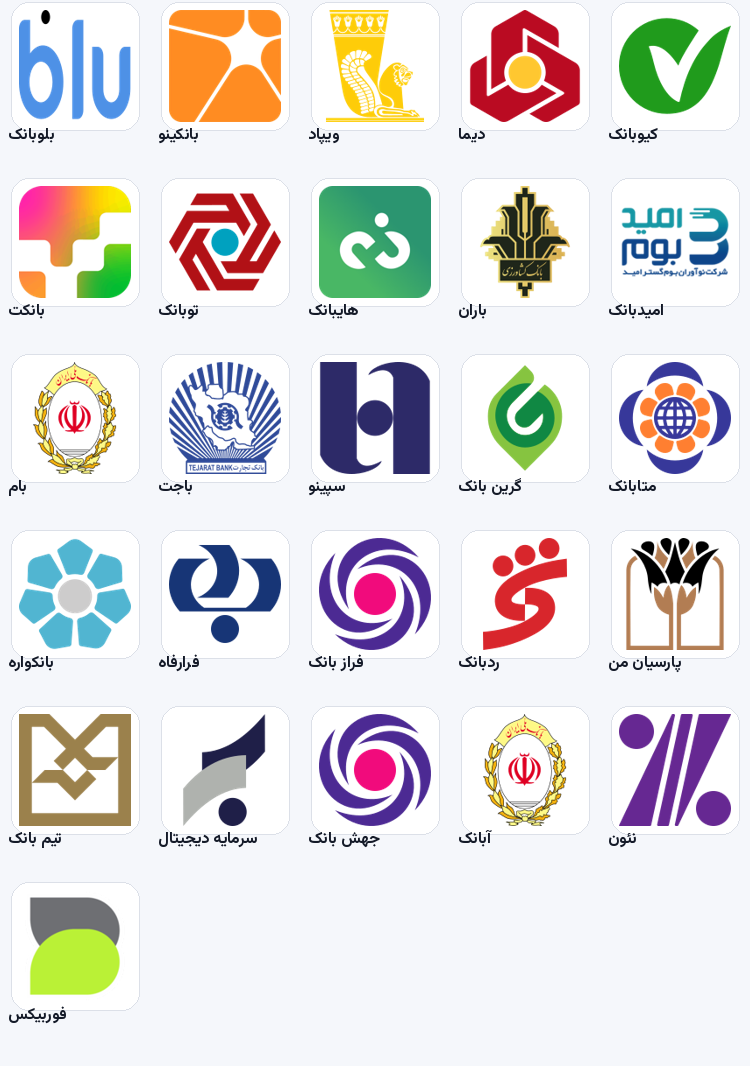
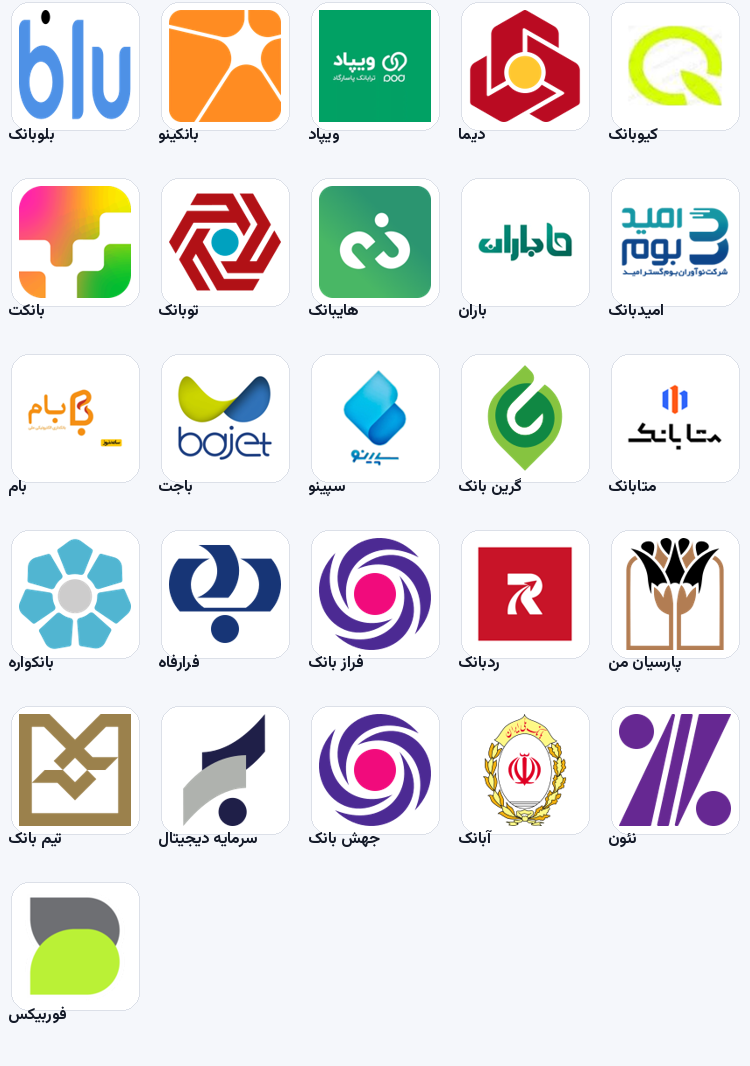
Add standalone brand marks for eight digital banks
Vipad, QBank, Baran, Bam, Bajet, Sepino, MetaBank and RedBank now use
their own marks instead of the parent bank's logo. The remaining 11
digital banks keep the documented parent-mark fallback.

diff --git a/lib/core/constants/iranian_banks.dart b/lib/core/constants/iranian_banks.dart
@@ -495,7 +495,7 @@ const List<IranianBank> iranianBanks = <IranianBank>[
     nameFa: 'ویپاد',
     nameEn: 'Vipad',
     colorHex: '#C9A227',
-    logoAsset: 'assets/banks/pasargad.svg',
+    logoAsset: 'assets/banks/vipad.png',
     kind: BankKind.digitalBank,
     parentBank: 'بانک پاسارگاد',
     aliases: ['وی پاد', 'vipad'],
@@ -515,7 +515,7 @@ const List<IranianBank> iranianBanks = <IranianBank>[
     nameFa: 'کیوبانک',
     nameEn: 'QBank',
     colorHex: '#0D9488',
-    logoAsset: 'assets/banks/mehr_iran.svg',
+    logoAsset: 'assets/banks/qbank.png',
     kind: BankKind.digitalBank,
     parentBank: 'بانک قرضالحسنه مهر ایران',
     aliases: ['کیو بانک', 'qbank', 'q bank'],
@@ -555,7 +555,7 @@ const List<IranianBank> iranianBanks = <IranianBank>[
     nameFa: 'باران',
     nameEn: 'Baran',
     colorHex: '#16A34A',
-    logoAsset: 'assets/banks/keshavarzi.svg',
+    logoAsset: 'assets/banks/baran.png',
     kind: BankKind.digitalBank,
     parentBank: 'بانک کشاورزی',
     aliases: ['baran'],
@@ -576,7 +576,7 @@ const List<IranianBank> iranianBanks = <IranianBank>[
     nameFa: 'بام',
     nameEn: 'Bam',
     colorHex: '#0F766E',
-    logoAsset: 'assets/banks/melli.svg',
+    logoAsset: 'assets/banks/bam.png',
     kind: BankKind.digitalBank,
     parentBank: 'بانک ملی ایران',
     aliases: ['bam'],
@@ -586,7 +586,7 @@ const List<IranianBank> iranianBanks = <IranianBank>[
     nameFa: 'باجت',
     nameEn: 'Bajet',
     colorHex: '#DB2777',
-    logoAsset: 'assets/banks/tejarat.svg',
+    logoAsset: 'assets/banks/bajet.png',
     kind: BankKind.digitalBank,
     parentBank: 'بانک تجارت',
     aliases: ['bajet'],
@@ -596,7 +596,7 @@ const List<IranianBank> iranianBanks = <IranianBank>[
     nameFa: 'سپینو',
     nameEn: 'Sepino',
     colorHex: '#1D4ED8',
-    logoAsset: 'assets/banks/saderat.svg',
+    logoAsset: 'assets/banks/sepino.png',
     kind: BankKind.digitalBank,
     parentBank: 'بانک صادرات ایران',
     aliases: ['sepino'],
@@ -616,7 +616,7 @@ const List<IranianBank> iranianBanks = <IranianBank>[
     nameFa: 'متابانک',
     nameEn: 'MetaBank',
     colorHex: '#7C3AED',
-    logoAsset: 'assets/banks/melall.svg',
+    logoAsset: 'assets/banks/metabank.png',
     kind: BankKind.digitalBank,
     parentBank: 'مؤسسه اعتباری ملل',
     aliases: ['متا', 'meta', 'metabank'],
@@ -656,7 +656,7 @@ const List<IranianBank> iranianBanks = <IranianBank>[
     nameFa: 'ردبانک',
     nameEn: 'RedBank',
     colorHex: '#DC2626',
-    logoAsset: 'assets/banks/shahr.svg',
+    logoAsset: 'assets/banks/redbank.png',
     kind: BankKind.digitalBank,
     parentBank: 'بانک شهر',
     aliases: ['رد', 'red', 'redbank'],

diff --git a/test/unit/bank_catalog_test.dart b/test/unit/bank_catalog_test.dart
@@ -62,7 +62,7 @@ void main() {
     }
     final withLogos = iranianBanks.where((bank) => bank.logoAsset != null);
     expect(withLogos.length, 66);
-    expect(withLogos.map((bank) => bank.logoAsset).toSet().length, 47);
+    expect(withLogos.map((bank) => bank.logoAsset).toSet().length, 55);
     for (final bank in withLogos) {
       final data = await rootBundle.load(bank.logoAsset!);
       expect(data.lengthInBytes, greaterThan(200), reason: bank.logoAsset);

diff --git a/docs/ASSETS.md b/docs/ASSETS.md
@@ -73,34 +73,39 @@ DARAM does not load any image, icon or font from the network at runtime. Everyth
 
 ### Neobank marks
 
-The catalog has 26 digital banks. Seven have an official standalone mark
-bundled — **BluBank**, **Bankino**, **Banket**, **HiBank**, **OmidBank**,
-**GreenBank** and **ForBix**. The remaining 19 use their parent bank's mark in
-the picker (the subtitle shows the parent), because no standalone public asset
-could be verified. There are no letter placeholders.
+The catalog has 26 digital banks. Fifteen have a standalone mark bundled:
 
-| Digital bank | Bundled mark | Source |
+- **Official marks (7):** BluBank, Bankino, Banket, HiBank, OmidBank,
+  GreenBank, ForBix.
+- **Additional public brand marks (8):** Vipad, QBank, Baran, Bam, Bajet,
+  Sepino, MetaBank, RedBank.
+
+The remaining 11 digital banks have no verifiable standalone mark; the picker
+uses their parent bank's logo and displays the parent in the subtitle. There are
+no letter placeholders.
+
+| Digital bank | Bundled mark | Kind / source |
 |---|---|---|
-| بلوبانک | `blue.svg` | Wikimedia Commons, CC BY-SA 4.0 |
-| بانکینو | `bankino.png` | Official Bankino app icon (Cafe Bazaar listing) |
-| بانکت | `banket.png` | banket.app |
-| هایبانک | `hibank.png` | hibank.ir |
-| امیدبانک | `omid.png` | omidbank.ir (wordmark) |
-| گرین بانک | `greenbank.svg` | greenbank.ir |
-| فوربیکس | `forbix.png` | forbix.ir |
-| ویپاد | `pasargad.svg` | Parent: بانک پاسارگاد |
+| بلوبانک | `blue.svg` | Official; Wikimedia Commons, CC BY-SA 4.0 |
+| بانکینو | `bankino.png` | Official app icon (Cafe Bazaar listing) |
+| بانکت | `banket.png` | Official; banket.app |
+| هایبانک | `hibank.png` | Official; hibank.ir |
+| امیدبانک | `omid.png` | Official wordmark; omidbank.ir |
+| گرین بانک | `greenbank.svg` | Official; greenbank.ir |
+| فوربیکس | `forbix.png` | Official; forbix.ir |
+| ویپاد | `vipad.png` | Public brand mark |
+| کیوبانک | `qbank.png` | Public brand mark |
+| باران | `baran.png` | Public brand mark |
+| بام | `bam.png` | Public brand mark |
+| باجت | `bajet.png` | Public brand mark |
+| سپینو | `sepino.png` | Public brand mark |
+| متابانک | `metabank.png` | Public brand mark |
+| ردبانک | `redbank.png` | Public brand mark |
 | دیما | `mellat.svg` | Parent: بانک ملت |
-| کیوبانک | `mehr_iran.svg` | Parent: بانک قرضالحسنه مهر ایران |
 | توبانک | `gardeshgari.svg` | Parent: بانک گردشگری |
-| باران | `keshavarzi.svg` | Parent: بانک کشاورزی |
-| بام | `melli.svg` | Parent: بانک ملی ایران |
-| باجت | `tejarat.svg` | Parent: بانک تجارت |
-| سپینو | `saderat.svg` | Parent: بانک صادرات ایران |
-| متابانک | `melall.svg` | Parent: مؤسسه اعتباری ملل |
-| بانکواره | `tosee_taavon.svg` | Parent: بانک توسعه تعاون |
 | فرارفاه | `refah.svg` | Parent: بانک رفاه کارگران |
+| بانکواره | `tosee_taavon.svg` | Parent: بانک توسعه تعاون |
 | فراز بانک | `iran_zamin.svg` | Parent: بانک ایران زمین |
-| ردبانک | `shahr.svg` | Parent: بانک شهر |
 | پارسیان من | `parsian.svg` | Parent: بانک پارسیان |
 | تیم بانک | `sanat_madan.svg` | Parent: بانک صنعت و معدن |
 | سرمایه دیجیتال | `sarmayeh.svg` | Parent: بانک سرمایه |
@@ -108,9 +113,9 @@ could be verified. There are no letter placeholders.
 | آبانک | `melli.svg` | Parent: بانک ملی ایران |
 | نئون | `eghtesad_novin.svg` | Parent: بانک اقتصاد نوین |
 
-The 47 unique files serve 66 catalog entries; some parent marks are intentionally
+The 55 unique files serve 66 catalog entries; some parent marks are intentionally
 shared. The picker always displays the digital bank's name and its parent, so a
-shared mark is not presented as a standalone logo. The official neobank marks
+shared mark is not presented as a standalone logo. All included neobank marks
 are trademarks of their owners and are used only to identify the user's own
 account; they are not covered by the project's source license. See
 [`assets/banks/ATTRIBUTION.md`](../assets/banks/ATTRIBUTION.md).

diff --git a/README.md b/README.md
@@ -269,7 +269,7 @@ Foreign keys are enabled (`PRAGMA foreign_keys = ON`), indexes cover dates, acco
 | DARAM mark, icon, splash, UI | original, created for this project | project identity |
 | Prompt and few-shot examples | original, written for this project | project content |
 
-Seven digital banks have an official standalone mark; the other 19 use their parent bank's logo (the parent is shown in the picker). There are no generated letter placeholders. Logos are used for identification only. See [`docs/ASSETS.md`](docs/ASSETS.md) and [`assets/banks/ATTRIBUTION.md`](assets/banks/ATTRIBUTION.md).
+Fifteen digital banks have a standalone mark (seven official marks plus eight public brand marks); the other 11 use their parent bank's logo, shown with the parent in the picker. There are no generated letter placeholders. Logos are used for identification only. See [`docs/ASSETS.md`](docs/ASSETS.md) and [`assets/banks/ATTRIBUTION.md`](assets/banks/ATTRIBUTION.md).
 
 ## 11. Testing
 
@@ -291,7 +291,7 @@ Coverage highlights:
 - Widget: splash/onboarding/chat, draft confirmation writes to Drift, dashboard/records/settings rendering, dark mode, RTL.
 - Integration: three activities in one message → three cards → **تأیید همه** → three records with correct balances.
 
-**No real API key is required** for any test. The current suite is **90 tests** across the unit, widget and integration suites, including the 66-entry/47-mark bank catalog and the searchable bank picker.
+**No real API key is required** for any test. The current suite is **90 tests** across the unit, widget and integration suites, including the 66-entry/55-mark bank catalog and the searchable bank picker.
 
 ## 12. Builds
 
@@ -379,7 +379,7 @@ python3 -m http.server 8080 --directory build/web
 - **Linux-specific limits:** saving the API key requires a running keyring (GNOME Keyring/KWallet); export/import needs `zenity` or `qarma`.
 - **Phase 1 deliberately has no** voice, SMS parsing, bank APIs, cloud sync, accounts/auth, budgets, goals or recurring transactions.
 - **AI quality depends on the chosen model.** Tool-calling models are strongly preferred; JSON mode is a fallback, not an equal experience.
-- **Bank catalog:** names follow public Iranian banking/neobank lists and may lag regulatory mergers. Users can always add a custom bank or neobank. Digital banks without a verified standalone mark reuse their parent bank's logo; official neobank marks are trademarks used only for identification.
+- **Bank catalog:** names follow public Iranian banking/neobank lists and may lag regulatory mergers. Users can always add a custom bank or neobank. Fifteen digital banks have a bundled standalone mark; the remaining 11 reuse their parent bank's logo. All marks are trademarks used only for identification.
 - **Transfers cannot be edited in place.** They can be deleted (with confirmation); fee rows are protected from direct edits.
 - **Undo covers AI-confirmed operations** (transaction, transfer, loan, installment payment, empty account). It refuses when dependent records exist (e.g. an account with transactions). Manual edits/deletes are not journaled.
 - **Loan model:** equal installments; remainder on the last; total interest split evenly; no amortization schedule or interest-rate calculation. Interest is tracked on the loan, not auto-booked as an expense.

diff --git a/assets/banks/ATTRIBUTION.md b/assets/banks/ATTRIBUTION.md
@@ -38,28 +38,36 @@ redistribute the app without permission or if the owner asks.
 | `greenbank.svg` | GreenBank | https://greenbank.ir/ |
 | `forbix.png` | ForBix | https://www.forbix.ir/ |
 
+## Additional standalone neobank marks
+
+These marks were sourced from public brand imagery and are bundled only to
+identify the user's own account. They are **trademarks** of their owners, not a
+grant of license, and are not covered by the project's source license.
+
+| File | Mark |
+|---|---|
+| `vipad.png` | Vipad (ویپاد) |
+| `qbank.png` | QBank (کیوبانک) |
+| `baran.png` | Baran (باران) |
+| `bam.png` | Bam (بام) |
+| `bajet.png` | Bajet (باجت) |
+| `sepino.png` | Sepino (سپینو) |
+| `metabank.png` | MetaBank (متابانک) |
+| `redbank.png` | RedBank (ردبانک) |
+
 ## Digital banks using their parent's mark
 
-The following digital banks do not have a standalone mark in this asset set;
-the picker uses the parent bank's logo and shows the parent in the subtitle.
-The parent logo files are CC0 (from `zegond/logos-per-banks`) and are reused
-intentionally, not mistakenly attributed.
+The following 11 digital banks have no verified standalone mark in this asset
+set; the picker uses the parent bank's logo and shows the parent in the
+subtitle. The parent logo files are CC0 and are reused intentionally.
 
 | Digital bank | Parent | File |
 |---|---|---|
-| Vipad (ویپاد) | بانک پاسارگاد | `pasargad.svg` |
 | Dima (دیما) | بانک ملت | `mellat.svg` |
-| QBank (کیوبانک) | بانک قرضالحسنه مهر ایران | `mehr_iran.svg` |
 | ToBank (توبانک) | بانک گردشگری | `gardeshgari.svg` |
-| Baran (باران) | بانک کشاورزی | `keshavarzi.svg` |
-| Bam (بام) | بانک ملی ایران | `melli.svg` |
-| Bajet (باجت) | بانک تجارت | `tejarat.svg` |
-| Sepino (سپینو) | بانک صادرات ایران | `saderat.svg` |
-| MetaBank (متابانک) | مؤسسه اعتباری ملل | `melall.svg` |
-| Bankvareh (بانکواره) | بانک توسعه تعاون | `tosee_taavon.svg` |
 | Fararefah (فرارفاه) | بانک رفاه کارگران | `refah.svg` |
+| Bankvareh (بانکواره) | بانک توسعه تعاون | `tosee_taavon.svg` |
 | FarazBank (فراز بانک) | بانک ایران زمین | `iran_zamin.svg` |
-| RedBank (ردبانک) | بانک شهر | `shahr.svg` |
 | Parsian Man (پارسیان من) | بانک پارسیان | `parsian.svg` |
 | TeamBank (تیم بانک) | بانک صنعت و معدن | `sanat_madan.svg` |
 | Sarmayeh Digital (سرمایه دیجیتال) | بانک سرمایه | `sarmayeh.svg` |
